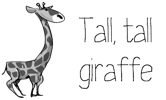
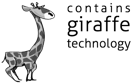
Smaller footer

Changed region(s): [[0.4511, 0.0238, 0.9925, 0.9048], [0.0, 0.0, 0.4211, 1.0]]

diff --git a/library/templates/library/base.html b/library/templates/library/base.html
@@ -58,14 +58,14 @@
     <div id="footer">
         <div class="grid">
             <div class="column-left span-8">
-                <p><img src="{% url static path="giraffe.png" %}" width="166" height="100" alt="Tall, tall giraffe"></p>
+                <p><img src="{% url static path="giraffe.png" %}" width="133" height="84" alt="contains giraffe technology"></p>
             </div>
             <div class="column-mid span-8">
                 <!-- this is where the middle footer column would go if there were one -->
                 &nbsp;
             </div>
             <div class="column-right span-8 last">
-                <p><a href="http://adfreeblog.org/"><img src="{% url static path="adfree.png" %}" width="216" height="80" alt="Ad-free blog"></a></p>
+                <p><a href="http://adfreeblog.org/"><img src="{% url static path="adfree.png" %}" width="151" height="56" alt="Ad-free blog"></a></p>
             </div>
         </div>
     </div>

diff --git a/static/style.css b/static/style.css
@@ -31,18 +31,19 @@ body, html {
 
 #page {
     min-height: 100%;
-    margin: 0 auto -110px;
+    margin: 0 auto -60px;
     padding: 0;
 }
 
 #not-a-footer, #footer {
     clear: both;
-    height: 110px;
+    height: 60px;
 }
 
 #footer {
     background-color: #eee;
-    height: 109px;
+    height: 59px;
+    overflow: hidden;
     border-top: 1px solid #ccc;
     margin: 0 auto;
     padding: 0;
